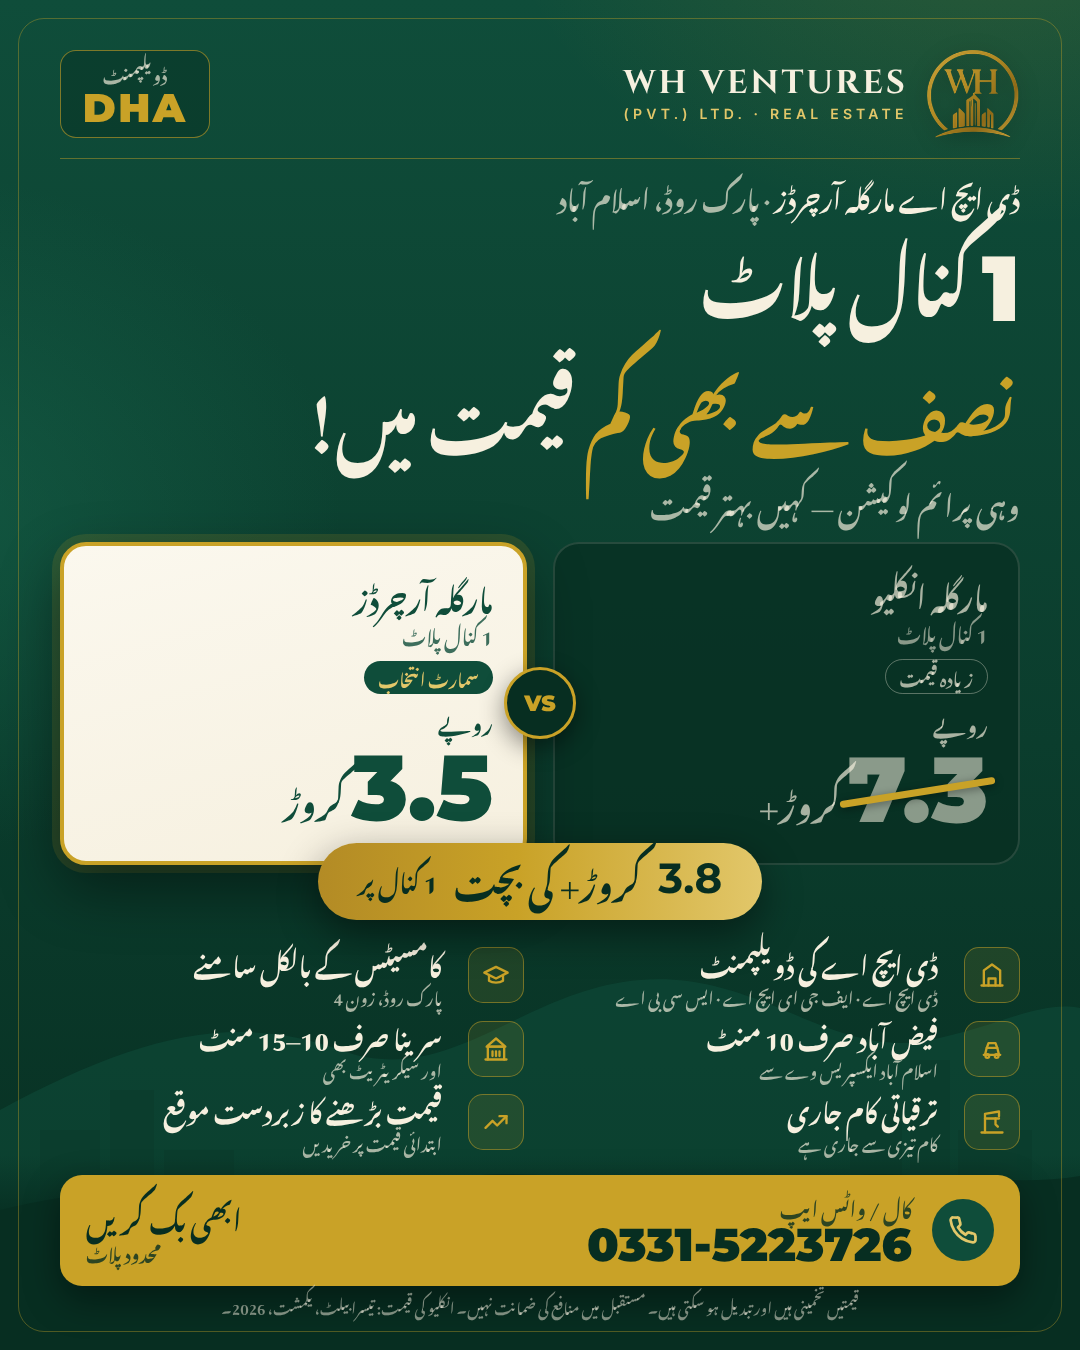
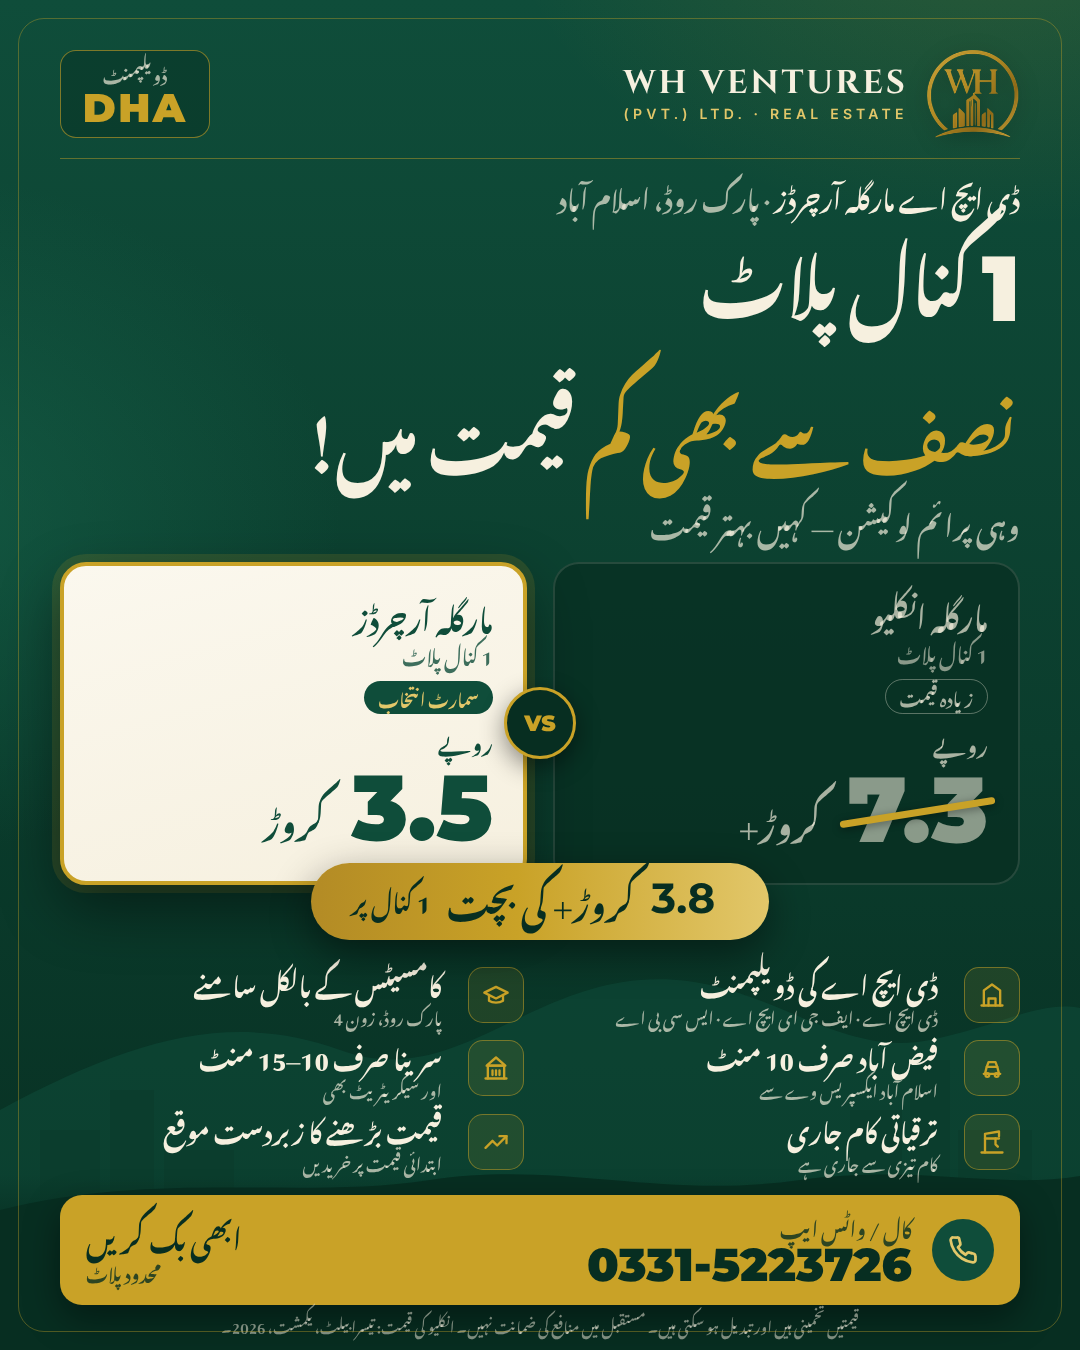
Fix Urdu text spacing: headline line gap and gap between numbers and کروڑ/کنال
Claude-Session: https://claude.ai/code/session_012xCc4tTPPKid5Gvtu7R153

Changed region(s): [[0.0306, 0.2489, 0.9472, 0.9956], [0.5806, 0.2489, 0.6111, 0.28]]

diff --git a/ads/margalla-orchards/variants.html b/ads/margalla-orchards/variants.html
@@ -357,6 +357,23 @@ html,body{background:#111}
 .square.ur .cta .by{font-size:22px}
 .square.ur .cta .by small{font-size:14px}
 .square.ur .disc{font-size:12px}
+
+/* =================== URDU SPACING FIXES =================== */
+/* extra air between the two Nastaliq headline lines so ascenders don't touch */
+.ur.C .headline .l2{padding-top:.62em}
+.mtn.ur.C:not(.story):not(.square) .headline .l2{padding-top:.8em}
+.ur.A .headline .l2{padding-top:.3em}
+/* keep the long swash of ک (کروڑ / کنال) clear of neighbouring numbers */
+.ur .tk .unit,.ur .card .unit{margin-inline-start:26px}
+.ur .tk .pkr,.ur .card .pkr{margin-inline-end:10px}
+.ur .saveline .lat{margin-inline:16px}
+.ur.A .save .n{margin-inline-end:14px}
+.ur.B .amt small{margin-inline-start:30px}
+.ur.B .row .val .u{margin-inline-start:12px}
+.square.ur .tk .unit{margin-inline-start:20px}
+/* rebalance vertical space after the bigger line gap */
+.story.mtn.ur.C .tickets{margin-top:178px}
+.mtn.ur.C .tickets{margin-top:134px}
 </style>
 </head>
 <body>
@@ -411,7 +428,7 @@ const T = {
     bKick:'بچت', bAmt:`3.8<small>کروڑ+</small>`, bSub:'مارگلہ انکلیو کے مقابلے میں — <b>1 کنال پلاٹ</b> پر',
     barThem:'مارگلہ انکلیو', barUs:'مارگلہ آرچرڈز', valThem:`${n('7.3')} <span class="u">کروڑ+</span>`, valUs:`${n('3.5')} <span class="u">کروڑ</span>`, pct:'52% کم',
     c1:'وہی پرائم لوکیشن', c2:'نصف سے بھی کم قیمت!',
-    cSave:`1 کنال پر <span class="lat">3.8</span> کروڑ+ کی بچت`,
+    cSave:`<span class="lat">1</span> کنال پر <span class="lat">3.8</span> کروڑ+ کی بچت`,
   }
 };
 const t = T[LANG];
